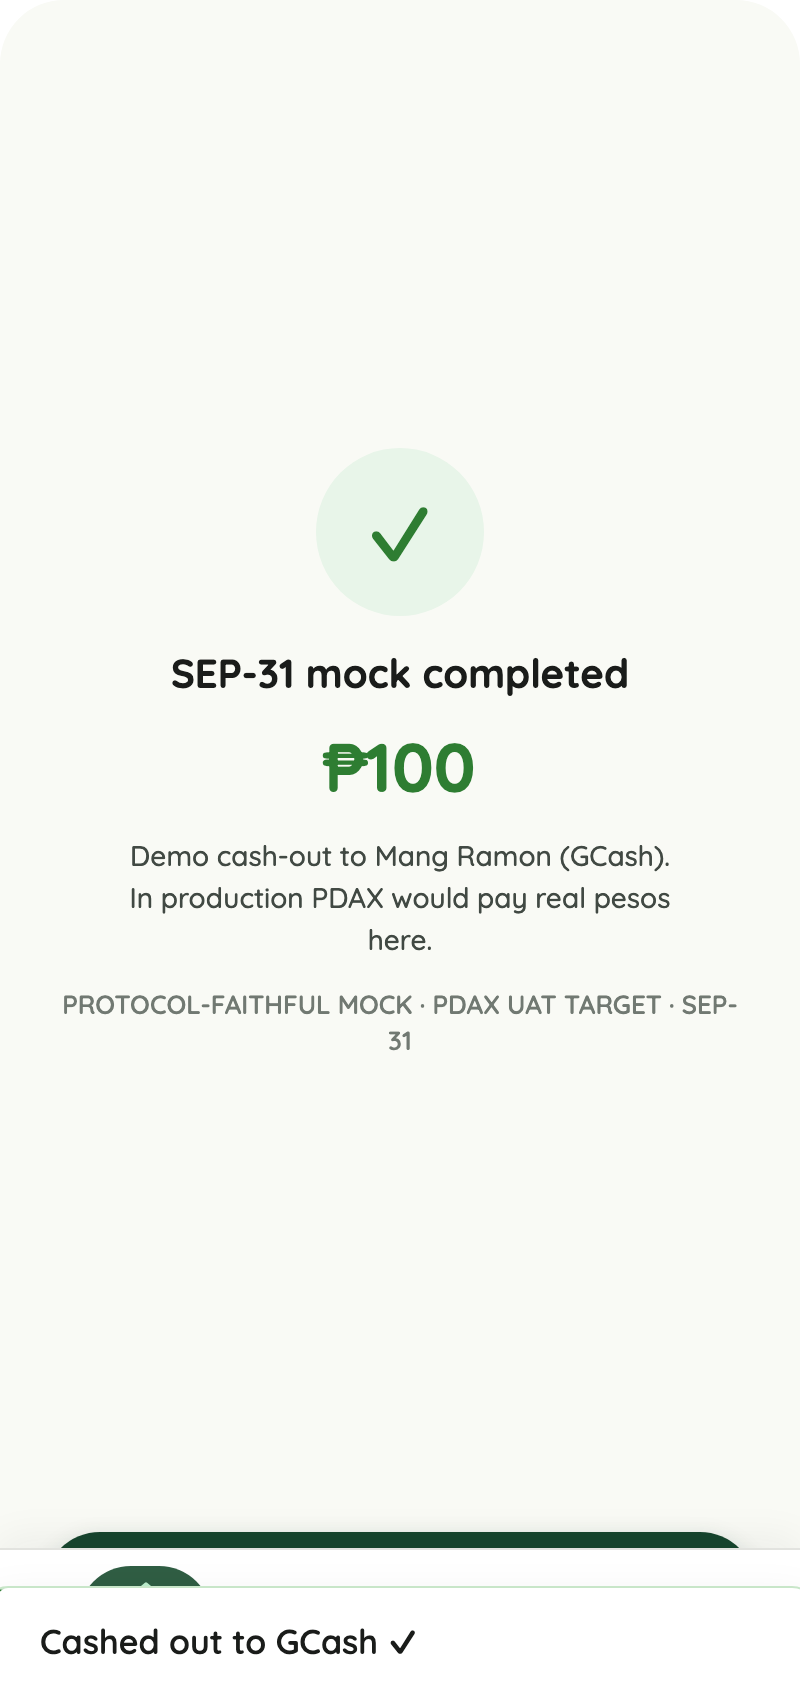
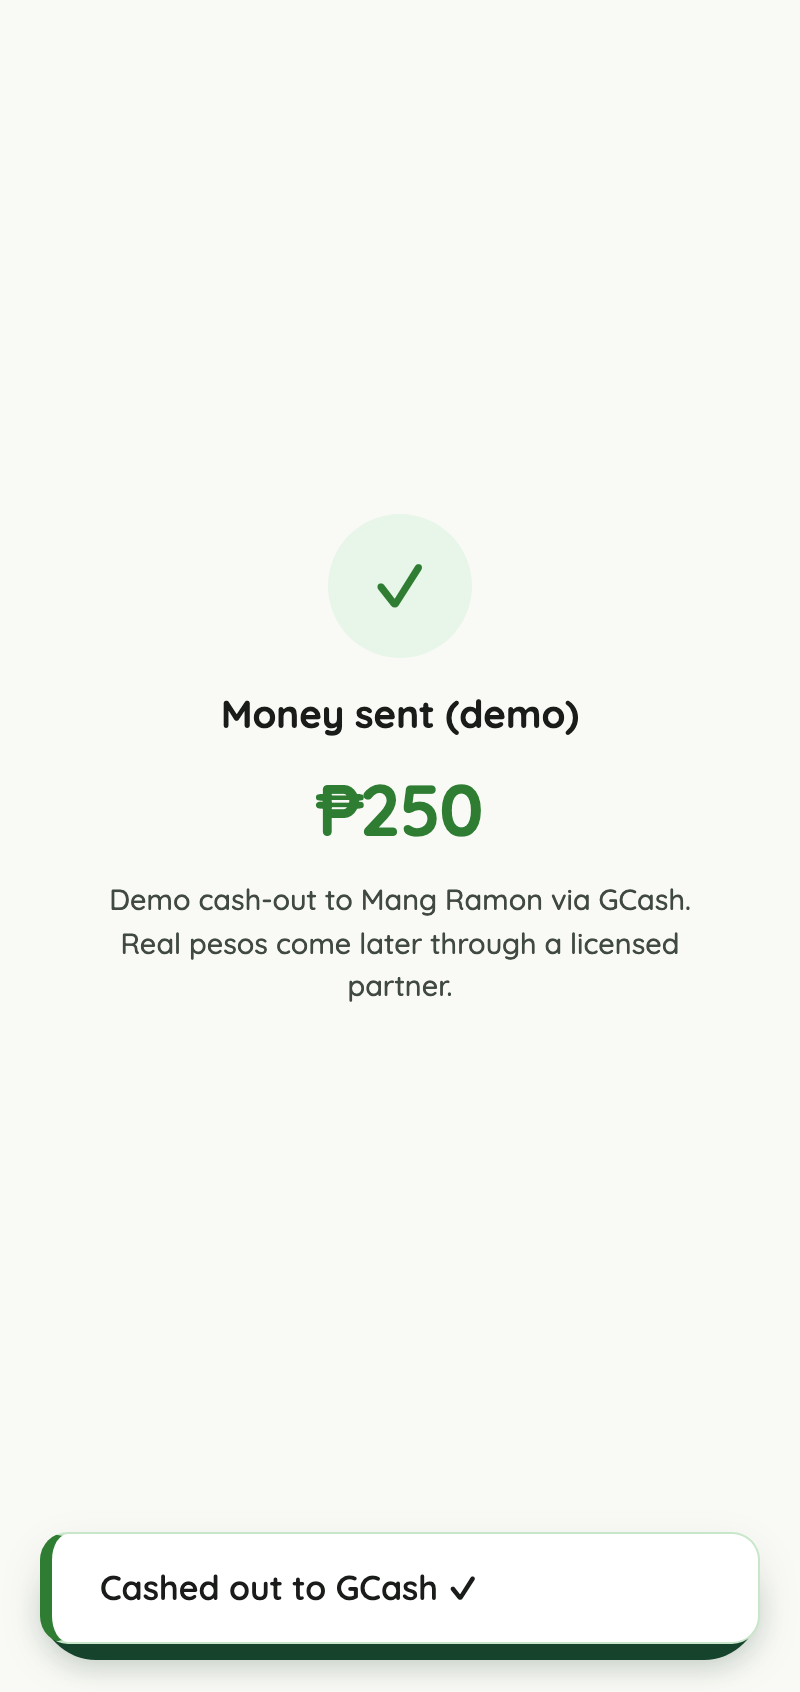
docs: refresh screenshots, README polish, and credits
Recapture farmer/funder UI from the live demo, document the Connect/overlay
branding updates, add a capture script, and credit Ethan as solo developer.

Changed region(s): [[0.0938, 0.3073, 0.8438, 0.6147], [0.0312, 0.8913, 0.9688, 1.0], [0.8438, 0.5839, 0.9062, 0.6147]]

diff --git a/README.md b/README.md
@@ -5,7 +5,7 @@
 <h1 align="center">Celerity</h1>
 
 <p align="center">
-  <strong>Disaster money that moves itself.</strong>
+  <strong>Relief that moves.</strong>
 </p>
 
 <p align="center">
@@ -47,6 +47,7 @@ cross-border settlement layer *underneath* them.
 > - **Live demo:** [stellar-celerity.me](https://stellar-celerity.me/)
 > - **Presentation:** [canva.link/ydnjf2yvz0dybpw](https://canva.link/ydnjf2yvz0dybpw)
 > - **Demo video:** [Google Drive](https://drive.google.com/file/d/1xSrghLvS7HGgZDI5f59QABwXWCzt8r91/view?usp=sharing)
+> - **Demo video script:** [`DEMO-VIDEO-TWITTER.md`](DEMO-VIDEO-TWITTER.md)
 > - **Contract address (Stellar Testnet):** `CC4CNJUTY5FCMVG3MFSMIMP6CSKAFDTK7DU6BKW5LNORGHGROJZAGKT7`
 >   — [view on stellar.expert](https://stellar.expert/explorer/testnet/contract/CC4CNJUTY5FCMVG3MFSMIMP6CSKAFDTK7DU6BKW5LNORGHGROJZAGKT7)
 > - **Design rules & win condition:** [`PROJECT.md`](PROJECT.md)
@@ -166,8 +167,14 @@ per-transaction on [stellar.expert](https://stellar.expert/explorer/testnet/cont
 
 ### Farmer App + Transparency
 
-- **Farmer view** — wallet total, receipts, recurring-installment claims, and a labeled SEP-31
-  anchor cash-out to PHP.
+- **Connect** — brand-first “Is this you?” screen: dove lockup + **Relief that moves**, farmer
+  name, full region label (e.g. Region V — Bicol), optional account reveal, and a quiet
+  multi-farmer switch for the demo slate.
+- **Farmer shell** — wallet total, receipts, recurring-installment claims, Quick Help / Cash Out /
+  tx detail as isolated overlays (Home nav never bleeds through), and a labeled SEP-31 anchor
+  cash-out to PHP.
+- **Brand chrome** — dove favicon in the browser tab; splash and Connect share the same mark and
+  tagline as the live site.
 - **Public transparency ledger** — every release across all funders, no login required.
 
 ### Honest Stubs (clearly labeled)
@@ -197,7 +204,7 @@ flowchart TD
 | Layer | Technology |
 | --- | --- |
 | Smart contract | Soroban (Rust), deployed to Stellar Testnet |
-| Frontend | React + Vite, `@stellar/stellar-sdk` (≥ 16), plain inline-style design system |
+| Frontend | React + Vite, `@stellar/stellar-sdk` (≥ 16), design tokens + shared CSS |
 | Oracle signer | Node.js Ed25519 (simulates a PAGASA/JMA-role authorized key) |
 | Settlement token | Native XLM SAC (a USD stablecoin in the production narrative) |
 | Anchor | Stubbed SEP-31 receiver for USD/stablecoin → PHP |
@@ -211,14 +218,17 @@ contracts/celerity/       Soroban smart contract (Rust)
   src/lib.rs              Data model + full function surface
   src/test.rs            Unit / adversarial tests (idempotency, isolation, dry-pool)
 celerity-web/            React frontend
+  public/                Brand assets (dove favicon, logo lockup)
   src/pages/funder/      Login, home, pools, oracle (bulletin drop), ledger, registry, settings
-  src/pages/farmer/      Farmer app: home, activity, cash-out, profile
+  src/pages/farmer/      Farmer app: splash, connect, home, activity, cash-out, profile
   src/pages/transparency/ Public transparency ledger
   src/design/            Design-system components + tokens.css
   src/lib/               celerity.js (contract client), regions.js, funders.js, anchor.js
 oracle/                  Node.js Ed25519 oracle signer (demo stub for the weather feed)
 tools/seed-demo.mjs      Repeatable demo-slate seed (pools + farmers, no event fired)
-screenshots/             Every screen in the live app, farmer + funder + transparency
+screenshots/             Product screenshots (refresh with `node tools/capture-screenshots.mjs`)
+DEMO-VIDEO-TWITTER.md    Short demo video roadmap + teleprompter script
+tools/capture-screenshots.mjs  Playwright capture of live farmer + funder screens
 deployments.json         Public Testnet deployment metadata + contract-id history
 ```
 
@@ -234,16 +244,22 @@ originals are in [`screenshots/`](screenshots/).
 
 <table>
 <tr>
+<td align="center"><img src="screenshots/01-farmer-splash.png" width="200" alt="Splash" /><br /><sub>Splash</sub></td>
+<td align="center"><img src="screenshots/02-farmer-connect.png" width="200" alt="Connect" /><br /><sub>Connect</sub></td>
 <td align="center"><img src="screenshots/03-farmer-home.png" width="200" alt="Farmer home" /><br /><sub>Home</sub></td>
 <td align="center"><img src="screenshots/04-farmer-activity.png" width="200" alt="Farmer activity" /><br /><sub>Activity</sub></td>
-<td align="center"><img src="screenshots/07-farmer-installments.png" width="200" alt="Installments" /><br /><sub>Installments</sub></td>
-<td align="center"><img src="screenshots/05-farmer-profile.png" width="200" alt="Farmer profile" /><br /><sub>Profile</sub></td>
 </tr>
 <tr>
+<td align="center"><img src="screenshots/07-farmer-installments.png" width="200" alt="Installments" /><br /><sub>Installments</sub></td>
+<td align="center"><img src="screenshots/05-farmer-profile.png" width="200" alt="Farmer profile" /><br /><sub>Profile</sub></td>
 <td align="center"><img src="screenshots/06-farmer-relief-programs.png" width="200" alt="Relief programs" /><br /><sub>Relief programs</sub></td>
 <td align="center"><img src="screenshots/08-farmer-my-region.png" width="200" alt="My region" /><br /><sub>My region</sub></td>
+</tr>
+<tr>
 <td align="center"><img src="screenshots/10-farmer-tx-detail.png" width="200" alt="Transaction detail" /><br /><sub>Tx detail</sub></td>
 <td align="center"><img src="screenshots/09-farmer-help.png" width="200" alt="Help" /><br /><sub>Help</sub></td>
+<td></td>
+<td></td>
 </tr>
 </table>
 
@@ -258,8 +274,8 @@ originals are in [`screenshots/`](screenshots/).
 </tr>
 <tr>
 <td align="center"><img src="screenshots/15-farmer-cashout-success.png" width="200" alt="Cash-out success" /><br /><sub>Success</sub></td>
-<td align="center"><img src="screenshots/01-farmer-splash.png" width="200" alt="Splash" /><br /><sub>Splash</sub></td>
-<td align="center"><img src="screenshots/02-farmer-connect.png" width="200" alt="Connect" /><br /><sub>Connect</sub></td>
+<td></td>
+<td></td>
 <td></td>
 </tr>
 </table>
@@ -369,9 +385,11 @@ cd celerity-web && node ../tools/seed-demo.mjs
 3. In **Farmers (LGU)**, show the registry belongs to the government, not the funders.
 4. Open **Trigger Typhoon**, drop the PAGASA bulletin, and watch it settle every matching region
    at once — one signed bulletin, many releases.
-5. Jump to the **Ledger** and the **farmer app**: the money has already arrived, and every release
-   is one click from stellar.expert.
-6. Run the farmer's balance through the labeled **SEP-31 anchor stub** to spendable pesos.
+5. Jump to the **farmer app**: confirm identity on **Connect** (name + region), then show the
+   wallet — the money has already arrived. Every release is one click from stellar.expert; the
+   funder **Ledger** matches what the farmer sees.
+6. Run the farmer's balance through the labeled **SEP-31 anchor stub** to spendable pesos
+   (overlays stay above the tab bar the whole way).
 
 ## Environment
 
@@ -391,10 +409,10 @@ cd celerity-web && node ../tools/seed-demo.mjs
 
 Do **not** set `VITE_*_SECRET` in Vercel Production — Vite would bake them into the public JS bundle.
 
-## Team
+## Credits
 
-**Ethan Dreiz Baltazar**
-Builder, designer, and developer of Celerity.
+**Ethan Dreiz Baltazar** — solo developer.
+Built, designed, and shipped Celerity end to end (contract, oracle stub, farmer app, funder console, and demo).
 
 - GitHub: [thanreiz](https://github.com/thanreiz)
 
@@ -410,7 +428,8 @@ Builder, designer, and developer of Celerity.
 
 ---
 
-> **Status:** Phase 5 — the end-to-end story is clickable. A signed typhoon bulletin releases
-> multiple independently-funded sub-pools to registered farmers, live on Stellar Testnet,
-> idempotently, with a per-funder ledger and a labeled anchor cash-out. Funder console redesigned
-> login-first with a multi-region bulletin trigger; running on a fresh, seeded demo contract.
+> **Status:** Demo-ready on [stellar-celerity.me](https://stellar-celerity.me/). A signed typhoon
+> bulletin releases multiple independently-funded sub-pools to registered farmers, live on Stellar
+> Testnet, with a per-funder ledger and a labeled SEP-31 cash-out. Farmer Connect is brand-first
+> (**Relief that moves** + full region label); overlays no longer bleed under the tab bar; the dove
+> mark is the site favicon.
